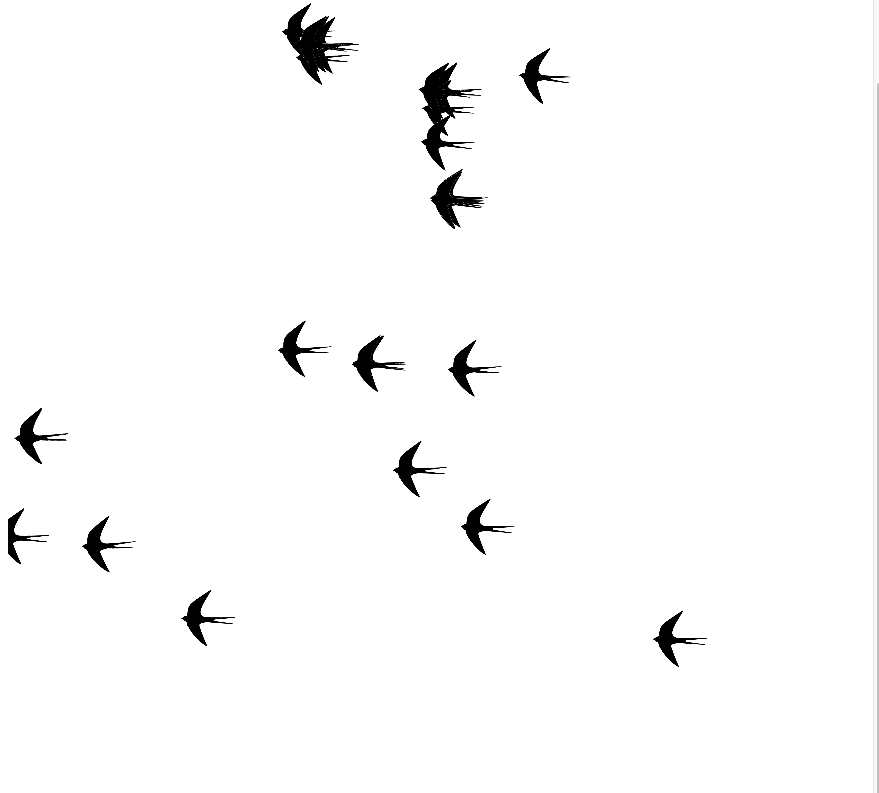
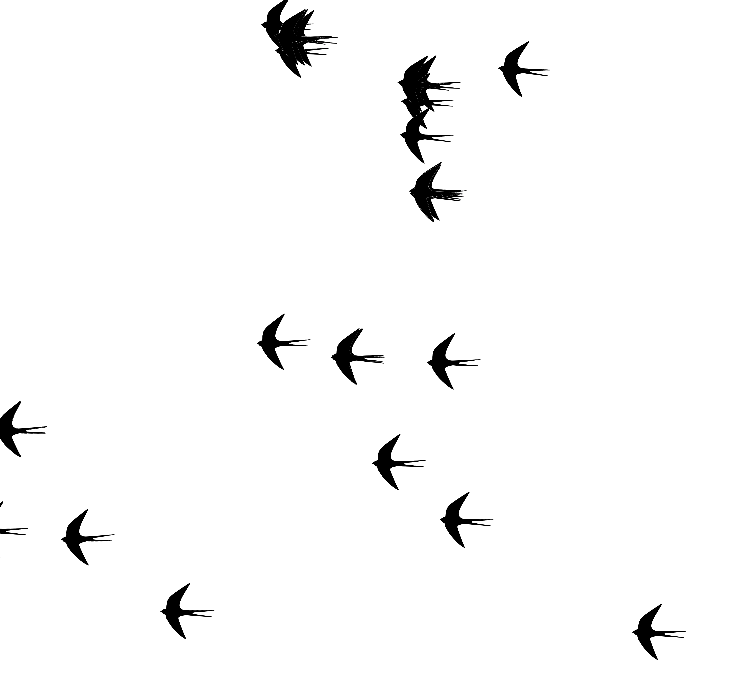
Final draft ready.

diff --git a/sections/flocker.tex b/sections/flocker.tex
@@ -33,7 +33,7 @@
 % OF THIS SOFTWARE, EVEN IF ADVISED OF THE POSSIBILITY OF SUCH DAMAGE.
 %
 % @created Sat Mar 31 2018 22:05:54 GMT-0700 (PDT)
-% @last-modified Mon Apr 02 2018 17:22:42 GMT-0700 (PDT)
+% @last-modified Wed Apr 04 2018 22:12:51 GMT-0700 (PDT)
 %
 
 
@@ -48,11 +48,11 @@
 
 The source-code \cite{flockerSrc} for {\em flocker} has been written in \mbox{Typescript}~(TS) \cite{ts} which has been compiled and bundled into a single \code{.js} file using the \mbox{Webpack} tool \cite{wbpack}.
 
-The central idea for implementing a simulation involving agents is coming up with a model for each agent. In our case, the agents -- {\em swallows} -- are {\em plain old Javascript objects} (POJO). Each swallow is given an \code{image}, \code{position}, \code{velocity}, and \code{acceleration}. The \code{image} is a \code{.PNG} image file of a swallow bird; \code{position}, \code{velocity}, and \code{acceleration} are p5.js \code{Vectors}. When a swallow spawns -- gets added to the simulation -- it is assigned a random position. Similarly, each swallow is assigned a random \code{velocity} in a random direction. However, initially, each swallow has zero \code{acceleration} -- no forces are acting on the swallow. Furthermore, internally each swallow has a {\em 4 x 4 matrix} to keep track of its position, scaling, and rotation. This matrix has been designed to be similar to {\em openframework's} \code{ofMatrix4x4} but, with utility methods specific to {\em flocker} like applications.
+The key step in implementing a simulation involving \mbox{\em autonomous~agents} is coming up with a model for each agent. In our case, the agents -- {\em swallows} -- are {\em plain old Javascript objects} (POJO). Each swallow is given an \code{image}, \code{position}, \code{velocity}, and \code{acceleration}. The \code{image} is a \code{.PNG} image file of a swallow bird; \code{position}, \code{velocity}, and \code{acceleration} are p5.js \code{Vectors}. When a swallow spawns -- gets added to the simulation -- it is \mbox{assigned} a random position. Similarly, each swallow is assigned a random \code{velocity} in a random direction. However, initially, each swallow has zero \code{acceleration} -- no forces are acting on the swallow. Furthermore, internally each swallow has a {\em 4 x 4 matrix} to keep track of its position, scaling, and rotation. This matrix has been designed to be similar to {\em openframework's} \code{ofMatrix4x4} but, with utility methods specific to {\em flocker} like applications.
 
-In our simulation, there are three types of forces acting on a swallow: {\em cohesion}, {\em separation}, and {\em alignment}. When the swallow flies, for each tick, the \code{acceleration} is the the aggregate of these three forces. Assuming each swallow to be of unit mass, using the equation \code{F = ma}, we can get \code{F = a}. The resultant \code{acceleration} updates the swallow's \code{velocity} which in turn modifies the swallow's \code{position}. The direction of the swallow's movement is determined from its \code{velocity}.
+In our simulation, there are three types of {\em steering forces} acting on a swallow: {\em cohesion}, {\em separation}, and {\em alignment}. When the swallow flies, for each tick, the \code{acceleration} is the the aggregate of these three forces. Assuming each swallow to be of unit mass, using the equation \code{F = ma}, we can get \code{F = a}. The resultant \code{acceleration} updates the swallow's \code{velocity} which in turn modifies the swallow's \code{position}. The direction of the swallow's movement is determined from its \code{velocity}.
 
-Since, there are three forces acting on a swallow influencing its flight behavior, we expose their desired strength and weights to the end user. The end user has the ability to modify the strength and weights of these forces to influence the behavior of the swallows and visualize the {\em flocking behavior}. The design choice for the user-interface (UI) will be covered in the next section \ref{flockerUI}.
+Since, there are three forces influencing a swallow's flight behavior, we expose their desired strength and weights to the user. The {\em flocker ui} connects the user with the simulation core allowing them to modify the three steering forces. The design choice for the user-interface (UI) will be covered in [Section \ref{flockerUI}].
 
 {\em Note}: We use the words {\em neighborhood} --- {\em simulation space}, and {\em peer} --- {\em neighbor} interchangeably while talking about the computation of the three steering forces acting on the swallow.
 
@@ -61,19 +61,19 @@ Since, there are three forces acting on a swallow influencing its flight behavio
 
 \begin{figure}
 	\centering
-	\includegraphics[scale=0.15]{resources/swallow.png}
+	\includegraphics[scale=0.15, frame]{resources/swallow.png}
 	\caption{The image used for a swallow.}
 	\label{swallowImg}
 \end{figure}
 
 The {\em swallow} [Fig. \ref{swallowImg}] is the bird chosen for this simulation. The design was inspired by the exhibit at the {\em Exploratorium, San Francisco} named {\em Flock} \cite{jillflock}. The image however is a \code{.PNG} file created from a screenshot of an icon by Prahlad \cite{apSwallow}.
 
-The swallow is designed to be an agent represented as a POJO that is intelligent enough to navigate through the environment and exhibit the flocking behavior according to the three forces.
+The swallow is designed to be an {\em autonomous agent} represented as a POJO that is intelligent enough to navigate through the environment and exhibit the flocking behavior with the three steering forces action upon it. The following paragraphs illustrate how the steering forces have been implemented in the flocker core.
 
 \subsubsection{Separation}
 \label{separation}
 
-{\em Separation} is the force acting on a swallow that enables it to maintain a certain separation from its peers in the simulation space. It is a kind of collision prevention mechanism. Initially, each swallow starts with a desired separation strength of 50 units and the weight of this separation force is 3 units. Each swallow computes the steering separation force after taking into account its distance from all of its peers in the simulation space -- it is exhaustive. Once the steering force has been computed, the force acts on the swallow changing its acceleration causing it to stay clear of its peers in the simulation. The separation steering force algorithm [Fig. \ref{separationLogic}] shows how the separation force is computed for the swallow. It is based on the algorithms in \cite{reynolds1999steering, danshiffman}.
+{\em Separation} is the force acting on a swallow that enables it to maintain a certain separation from its peers in the simulation space. It is a kind of collision prevention mechanism. Initially, each swallow starts with a desired separation strength of \code{50 units} and the weight of this separation force is \code{3 units}. Each swallow computes the steering separation force after taking into account its distance from all of its peers in the simulation space -- it is exhaustive. Once the steering force has been computed, the force acts on the swallow changing its acceleration causing it to stay clear of its peers in the simulation. The separation steering force algorithm [Fig. \ref{separationLogic}] shows how the separation force is computed for the swallow. It is based on the algorithms in \cite{reynolds1999steering, danshiffman}.
 
 \begin{figure}
 	\begin{verbatim}
@@ -103,7 +103,7 @@ Swallow::separation :: () -> Vector
 
 \begin{figure}
     \centering
-	\includegraphics[scale=0.30, width=250pt]{resources/flocker_max_separation.png}
+	\includegraphics[scale=0.30, width=250pt, frame]{resources/flocker_max_separation.png}
 	\caption{Max separation simulation.}
 	\label{maxSeparationImg}
 \end{figure}
@@ -112,7 +112,7 @@ Swallow::separation :: () -> Vector
 \label{alignment}
 
 {\em Alignment} is the force acting on a swallow that enables it to align itself with its peers in the simulation space.
-When the swallow aligns itself, it moves in the same direction with the same velocity as its peers. Initially, each swallow starts with a desired alignment strength of 50 units and the weight of this alignment force is 2 units. Each swallow computes the steering alignment force after computing the average velocity of all its peers. This enables it to move in the same direction. This too like separation \ref{separation} is exhaustive. The alignment steering force algorithm [Fig. \ref{alignmentLogic}] shows how the alignment force is computed for the swallow. It too is based on the algorithms in \cite{reynolds1999steering, danshiffman}.
+When the swallow aligns itself, it moves in the same direction with the same velocity as its peers. Initially, each swallow starts with a desired alignment strength of \code{50 units} and the weight of this alignment force is \code{2 units}. Each swallow computes the steering alignment force after computing the average velocity of all its peers. This enables it to move in the same direction. This too like separation [Section \ref{separation}] is exhaustive. The alignment steering force algorithm [Fig. \ref{alignmentLogic}] shows how the alignment force is computed for the swallow. It too is based on the algorithms in \cite{reynolds1999steering, danshiffman}.
 
 \begin{figure}
 	\begin{verbatim}
@@ -140,7 +140,7 @@ Swallow::alignment :: () -> Vector
 
 \begin{figure}
     \centering
-	\includegraphics[scale=0.30, width=250pt]{resources/flocker_max_alignment.png}
+	\includegraphics[scale=0.30, width=250pt, frame]{resources/flocker_max_alignment.png}
 	\caption{Max alignment simulation.}
 	\label{maxAlignmentImg}
 \end{figure}
@@ -149,7 +149,7 @@ Swallow::alignment :: () -> Vector
 \label{cohesion}
 
 {\em Cohesion} is the force acting on a swallow that enables it to group together with its peers in the simulation space. This force steers the swallow towards its peers so that it can approach its peers and form a group -- flock.
-In a sense, it can be considered as the gravitational force pulling in the swallows. Initially, each swallow starts with a desired cohesion strength of 50 units and the weight of this cohesion force is 2 units. Each swallow computes the steering cohesion force after computing the average position of all its peers. Then, the swallow moves towards this average position -- the center of gravity of the simulation space. This too like separation \ref{separation}, and alignment \ref{alignment} is exhaustive. The cohesion steering force algorithm [Fig. \ref{cohesionLogic}] shows how the cohesion force is computed for the swallow. It too is based on the algorithms in \cite{reynolds1999steering, danshiffman}.
+In a sense, it can be considered as the gravitational force pulling in the swallows towards the {\em center of gravity}. Initially, each swallow starts with a desired cohesion strength of \code{50 units} and the weight of this cohesion force is \code{2 units}. Each swallow computes the steering cohesion force after computing the average position of all its peers. Then, the swallow moves towards this average position -- the {\em center of gravity} of the simulation space. This too like separation [Section \ref{separation}], and alignment [Section \ref{alignment}] is exhaustive. The cohesion steering force algorithm [Fig. \ref{cohesionLogic}] shows how the cohesion force is computed for the swallow. It too is based on the algorithms in \cite{reynolds1999steering, danshiffman}.
 
 \begin{figure}
 	\begin{verbatim}
@@ -187,7 +187,7 @@ Swallow::seek :: (target: Vector) -> Vector
 
 \begin{figure}
     \centering
-	\includegraphics[scale=0.30, width=250pt]{resources/flocker_max_cohesion.png}
+	\includegraphics[scale=0.30, width=250pt, frame]{resources/flocker_max_cohesion.png}
 	\caption{Max cohesion simulation.}
 	\label{maxCohesionImg}
 \end{figure}
@@ -197,8 +197,32 @@ Swallow::seek :: (target: Vector) -> Vector
 
 The entire simulation runs inside a HTML \code{canvas} element which is generated by the p5.js library. We generate the canvas with the same dimensions as the content area of our webpage -- the canvas is re-rendered when the window resizes. Furthermore, we make the simulation wrap around the edges so that the swallows do not fall off the viewable area -- the direction of motion and velocity are preserved when wrapping around, only the position is affected.
 
-By default, the simulation caps the acceleration to a maximum value of \code{0.03}, and the velocity to a maximum value of \code{2.0}. This prevents the swallows from moving too fast and produces a smooth motion. The simulation starts out with \code{30} swallows, all at randomly generated positions. The user has the ability to add in a new swallow to the simulation by clicking on any area of the canvas. The new swallow is added at the point of mouse click but, with random velocity and direction~--~~to keep the motion random.
+By default, the simulation caps the acceleration to a maximum value of \code{0.03}, and the velocity to a maximum value of \code{2.0}. This prevents the swallows from moving too fast and produces a smooth motion. The simulation starts out with \code{30} swallows, all at randomly generated positions. 
 
-{\em Flocker} core has been designed as a standalone \mbox{library} that can be plugged in into different UI/view layer \mbox{implementations}. Comparing it with a traditional \mbox{\em model-view-controller} (MVC) architecture, the core would consist of the {\em model}, and the {\em controller} layers. Our UI is strictly restricted to the {\em view} layer only.
+The user has the ability to add in a new swallow to the simulation by clicking on any area of the canvas or using the {ctrl + c} key combination to add a swallow to the center of the canvas. The new swallow is added with random velocity and direction~--~~to keep the motion random. Similarly, pressing \code{ctrl + r} key combination removes a swallow from the simulation. The swallow removed is the oldest swallow; pressing \code{ctrl + d} enables the {\em debug view}. In the {\em debug view}, the canvas displays a grid which can be used to visually determine the positions of each swallow in the simulation space. Moreover, holding the \code{ctrl} {\em meta-key} displays the keymap information [Fig. \ref{metaAssistMenu}] to the user at the center of the canvas. This works as a quick reference -- inspired by {\em Ubuntu's} keymap reference when holding the {\em super key} \cite{ubuntuOverlay}.
+
+The simulation also displays the {\em frame-rate} and {\em swallow count} at the top left corner of the canvas [Fig. \ref{canvasExtraInfo}]. This is additional information that could be helpful to some users.
+
+\begin{figure}
+	\centering
+	\includegraphics[scale=0.36, width=250pt, frame]{resources/meta_assist_menu.png}
+	\caption{Assist menu}
+	\label{metaAssistMenu}
+\end{figure}
+
+\begin{figure}
+	\centering
+	\includegraphics[scale=0.35, width=250pt, frame]{resources/additional_canvas_text.png}
+	\caption{Frame-rate and swallow count.}
+	\label{canvasExtraInfo}
+\end{figure}
+
+The {\em flocker} core has been designed as a standalone \mbox{library} that can be plugged into different UI/view layer \mbox{implementations}. Comparing it with a traditional \mbox{\em model-view-controller} (MVC) architecture, the core would consist of the {\em model}, and the {\em controller} layers. Our UI is strictly restricted to the {\em view} layer only.
+
+\subsection{Testing the simulation}
+\label{flockerTesting}
+
+The {\em flocker core} was tested by checking the swallow's behavior upon changing the forces. The {\em debug grid} proved to be very helpful when testing the swallow's motion. To get a better understanding of how the swallows were behaving, we rendered a rectangular border around them. This allowed us to visually reason about the space each swallow took in the simulation space. Moreover, the {\em 4 x 4 matrix} utility was tested by using different values for translation, rotation, and scaling vectors. The early prototype \cite{flockerProto} also enabled us to iron out several bugs in the swallow's motion and we were able to get the smooth motion for the swallows.
+
 
 \end{document}

diff --git a/sections/flocker_ui.tex b/sections/flocker_ui.tex
@@ -33,7 +33,7 @@
 % OF THIS SOFTWARE, EVEN IF ADVISED OF THE POSSIBILITY OF SUCH DAMAGE.
 %
 % @created Sat Mar 31 2018 22:06:06 GMT-0700 (PDT)
-% @last-modified Tue Apr 03 2018 14:17:12 GMT-0700 (PDT)
+% @last-modified Wed Apr 04 2018 22:21:51 GMT-0700 (PDT)
 %
 
 
@@ -44,25 +44,52 @@
 \section{Flocker UI}
 \label{flockerUI}
 
-{\em Flocker UI} is divided into two separate segments: {\em Canvas area}, {\em Sidebar area}. Width and height of the {\em canvas area} and {\em sidebar area} are auto-configurable -- they adjust according the size of the screen/webpage.
-Features and styling for the UI component has implemented using {\em jQuery2.1} \cite{jquery} and {\em CSS3} \cite{css3}.
+{\em Flocker UI} is divided into two separate areas: the {\em canvas area}, and the {\em sidebar area}. Width and height of the {\em canvas area} and {\em sidebar area} are auto-configurable -- they adjust according the size of the browser window. Features and styles of the UI component have been implemented using {\em jQuery2.1} \cite{jquery} and {\em CSS3} \cite{css3}.
+
+{\em Note}: We recommend viewing the simulation on a screen with resolution of \code{1920 x 1080} or \code{FHD} in {\em full-screen} mode for best experience.
 
 \subsection{Canvas Area}
 \label{canvasArea}
 
-The {\em canvas area} illustrates the motion of flying swallows. The user can add new swallows to the simulation by clicking on the {\em canvas area}. The UI layer only deals with the placement of the {\em canvas area}, the simulation is handled by the {\em flocker core} covered in \ref{flocker}. Also, when the mouse is over the {\em canvas area}, the cursor changes into a {\em swallow}~[Fig. \ref{swallowImg}] indicating that the user can add a swallow at the point of left mouse button click. Moreover, double-clicking the secondary mouse button -- right mouse button -- inside the canvas area causes the {\em canvas area} to enter the full-screen mode, and the {\em sidebar area} is hidden. The {\em sidebar area} comes back when the user performs the same action or does a mouse click on the {\em canvas area}.
+The {\em canvas area} -- or {\em content area} -- holds the simulation. The user can add new swallows to the simulation by clicking on the {\em canvas area}. When the mouse is over the {\em canvas area}, the cursor changes into a {\em swallow}~[Fig. \ref{swallowImg}]. We designed this as an affordance to notify the user that they are on a region where swallows can be added. The cursor is the image of a swallow of dimensions \code{100 x 100 pixels}. The canvas is generated by the {\em flocker core} covered in [Section \ref{flocker}].
 
-The background color of the {\em canvas area} can be changed using the \code{R}, \code{G}, and \code{B} (Red, Green, and Blue) slider available in the {\em sidebar area}. The \code{R}, \code{G}, and \code{B} slider behaviour can be controlled using the range slider or input entry on the {\em sidebar}. If the range slider is moved in the positive x-direction or negative x-direction while keeping the left click of mouse-left button held down, it will result in increasing or decreasing the color intensity of the selected color. Alternatively, a user could also use the input provided corresponding to \code{R}, \code{G}, or \code{B} values to increase or decrease the intensity of the corresponding color. With the input box selected -- user can use \code{TAB} button as usual -- if a user holds the {\em up arrow key} or {\em down arrow key}, it will result in increase or decrease of the intensity of the corresponding color. If the user specifies the intensity of the color above \code{255} or below \code{0} in the input box, they will get an error specifying that the value of the corresponding color should be in the range of \code{0-255}.
+Although the canvas is {\em white} (\code{\#ffffff}) in color by default, we allow the user to change the background color of the canvas by using the \code{R}, \code{G}, and \code{B} (Red, Green, and Blue) sliders [Fig. \ref{colorSliders}] available on the {\em sidebar}. The \code{R}, \code{G}, and \code{B} values can be controlled by using the range sliders or input boxes on the {\em sidebar}. If the range slider is dragged in the positive x-direction or negative x-direction, it will increase or decrease the intensity of the respective color.
+
+\begin{figure}
+	\centering
+	\includegraphics[scale=0.35, width=250pt, frame]{resources/color_sliders.png}
+	\caption{The color sliders and input boxes.}
+	\label{colorSliders}
+\end{figure}
+
+Alternatively, the user could also use the corresponding input box to enter the exact value for the desired color. Since the input box and sliders are normal {\em HTML DOM elements}, they can be cycled through -- selected -- using the \code{TAB} button as usual. The user also gets the ability to increase or decrease the value entered in the input boxes by holding the {\em up arrow key} or {\em down arrow key}. Using the mouse scroll wheel also results in the same effect. Furthermore, when the input box is in focus, it gains an affordance on the right edge [Fig. \ref{forceSliders}]  enabling the user to increment/decrement the value entered. If the user specifies the intensity of the color above \code{255} or below \code{0} in the input box, they get an error and are asked to specify the value within the range~\code{0-255}.
 
 \subsection{Sidebar Area}
 \label{sidebarArea}
 
-The width of the {\em sidebar area} is re-sizable. We change the mouse pointer -- affordance -- to the {\em col-resize} pointer to let the user know where to click and drag to resize the {\em sidebar area}. In order to resize the sidebar, the user must click and hold their left mouse button while dragging their mouse in either the positive x-direction or negative x-direction. The resizable property of the sidebar is restricted to be resized between the range \code{300-400~pixels}~--~to prevent the UI from distorting.
+The {\em sidebar} holds the controllers for the simulation. It is located on the left of the webpage. It is separated from the {\em canvas/content area} by a {\em split-bar}. The width of the {\em sidebar area} is changed by dragging the {\em split-bar} horizontally to the right or left. The {\em sidebar} is {\em flexible} and gains a {\em scrollbar} when it doesn't find the browser-window's width to be sufficient for rendering itself. We change the mouse pointer to the \mbox{\em col-resize} pointer to let the user know that they are on the {\em split-bar}. This afforance notifies the user that they can drag to resize the {\em sidebar area}. The sidebar is restricted to be resized between the range \code{300-400~pixels} to prevent the UI from distorting.
 
-To control the {\em cohesion}, {\em alignment}, and {\em separation} steering forces of the simulation, range sliders and input entries are provided. We limit the weights of these forces to the range \code{0-5 units} and allow changes in steps of \code{0.1 units}. Similarly, we limit the desired strength of these forces to the range \code{0-300 units} and allow changes in steps of \code{5 units}.
+To control the {\em cohesion}, {\em alignment}, and {\em separation} steering forces of the simulation, range sliders and input boxes are provided [Fig. \ref{forceSliders}]. We limit the weights of these forces to the range \code{0-5 units} and allow changes in steps of \code{0.1 units}. Similarly, we limit the desired strength of these forces to the range \code{0-300 units} and allow changes in steps of \code{5 units}. The controllers used for force manipulation have the same operation mechanism as the ones used for manipulating canvas's background color intensities.
 
-The range slider can be moved in the positive x-direction or negative x-direction to increase or decrease the value of the property while holding the left mouse button down. The value for the property set by the slider is reflected in the corressponding text input box. Alternatively, to increase or decrease the value for these steering forces, the user can hold the up or down arrow keys of the keyboard or enter a value in their corressponding text input boxes.
+Initially, we had two groups of controllers. The first group had controllers for manipulating the strength of all the forces, and the second group had controllers for manipulating the weights of all the forces. However, we found this layout for controllers lacked coherence and moved over to our current layout. We have grouped the {\em desired strength} and {\em desired weight} controllers of the same force together to provide better coherence.
 
-If the value entered is outside the range, an error message is displayed right below the property specifying the valid range for the property. One would argue, it is a better option to give out the ranges allowed up-front as a tooltip but, we wanted to show the range only in the error. This is because the user doesn't really need much information while playing with the simulation, and this information is only necessary when they make a mistake -- enter absurd values.
+\begin{figure}
+	\centering
+	\includegraphics[scale=0.35, width=250pt, frame]{resources/force_sliders.png}
+	\caption{The force strength and weight controllers.}
+	\label{forceSliders}
+\end{figure}
+
+The controllers consist of a range slider and an input box. The range slider and contents of the input box are {\em in-sync} with each other -- when one changes, the other reflects the change. When bad values are entered in the input boxes, an error message is displayed below the controller specifying the valid range of values. One would argue, it is better to notify the user about the range of values upfront but, we have chosen not to. We believe that the user will not be entering bad values most of the time. Rather than crowding the space with extra information, we chose to gently warn the user when they made the mistake of entering bad values into the input boxes. This results in a cleaner UI that is not cramped -- less noise allows for a better simulation experience.
+
+\subsection{Color scheme}
+\label{colorScheme}
+
+We followed the theory of {\em complementary colors} as mentioned in \cite{colorTheory}. We decided to make the sidebar {\em blue} (\code{\#2196f3}). Following the theory of complementary colors, we chose the color of the sliders to be {\em orange} (\code{\#ff9800}). This makes them {\em pop-out} over the background. We chose the color of the text to be {\em white} (\code{\#ffffff}) and the color of the borders of input boxes to be {\em black} (\code{\#000000}). The canvas was left {\em white} by default but, the user gets the controllers to change the canvas' background color.
+
+\subsection{Testing the UI}
+\label{uiTesting}
+
+We tested the UI on various screen sizes and browser-window sizes. The viewing experience is the best on screens with atleast \code{1920 x 1080} or \code{FHD} resolution. We have implemented the {\em sidebar} and {\em canvas} to be flexible -- using CSS3 {\em flexbox} -- so, they adjust to the screen space available automatically. We tested the {\em frame-rate and swallow count} text alignment for various screen sizes by using the debug grid. It worked fine for most screen/browser window sizes. The controls were tested by entering valid and invalid values into the input boxes. The synchronization between the slider control and the input box contents was also tested by changing the values. The slider and input box contents are in-sync and bad values display the desired error messages.
 
 \end{document}

diff --git a/sections/intro.tex b/sections/intro.tex
@@ -33,7 +33,7 @@
 % OF THIS SOFTWARE, EVEN IF ADVISED OF THE POSSIBILITY OF SUCH DAMAGE.
 %
 % @created Sat Mar 31 2018 22:05:59 GMT-0700 (PDT)
-% @last-modified Mon Apr 02 2018 17:45:28 GMT-0700 (PDT)
+% @last-modified Wed Apr 04 2018 19:47:48 GMT-0700 (PDT)
 %
 
 
@@ -44,8 +44,8 @@
 \section{Introduction}
 \label{intro}
 
-The {\em flocking} behavior of birds in flight has been simulated by several computer and mathematical models. {\em Flocker} is inspired from the exhibit at {\em Exploratorium, San Francisco} \cite{jillflock}. However, unlike the exhibit, {\em flocker} is a browser based simulator.
+The {\em flocking} behavior of birds in flight has been simulated by several computer and mathematical models. {\em Flocker} is inspired from the exhibit at {\em Exploratorium, San Francisco} \cite{jillflock}. However, unlike the exhibit, {\em flocker} is a browser based simulator. Moreover, unlike the three physical dials of the exhibit \cite{jillflock}, our simulator has finer controls for manipulating the three steering forces affecting the flight behavior of the birds in the simulation.
 
-The simulator is strictly divided into two parts: \mbox{\em Flocker core}, \mbox{\em Flocker UI}. {\em Flocker core} is covered in \ref{flocker} and {\em flocker UI} is covered in \ref{flockerUI}. The {\em flocker core} is responsible for the simulation. It defines the birds and their behavior. The {\em flocker ui} is responsible for connecting the end user with the simulation. By enabling the end user to modify the key variables, they are able to visualize the flocking behavior of the birds in the simulation space.
+Our simulator is strictly divided into two parts: \mbox{\em flocker core}, and \mbox{\em flocker UI}. {\em Flocker core} is covered in [Section \ref{flocker}] and {\em flocker UI} is covered in [Section \ref{flockerUI}]. The {\em flocker core} is responsible for the simulation. The birds are {\em autonomous agents} flying in the simulation space and their flight behavior is influenced by three steering forces which are controlled by the user. The {\em flocker ui} is responsible for enabling the user to modify these three steering forces and view the effects on the flock instantaneously. Moreover, the user also has the ability to change the background color of the simulation space -- saving the canvas as an image makes great backgrounds for desktops and mobile devices.
 
 \end{document}

diff --git a/sections/conclusion.tex b/sections/conclusion.tex
@@ -33,7 +33,7 @@
 % OF THIS SOFTWARE, EVEN IF ADVISED OF THE POSSIBILITY OF SUCH DAMAGE.
 %
 % @created Mon Apr 02 2018 17:46:41 GMT-0700 (PDT)
-% @last-modified Tue Apr 03 2018 13:27:03 GMT-0700 (PDT)
+% @last-modified Wed Apr 04 2018 22:04:54 GMT-0700 (PDT)
 %
 
 \documentclass[../main]{subfiles}
@@ -44,6 +44,6 @@
 \label{concFuture}
 
 We have implemented an interactive web-based visualization tool for simulating bird flocking behavior.
-In the future this tool can be extended to leverage touch based gestures in the touch capable devices to give a better user experience. Additional affordances can be designed for controlling the variables easily and accurately.
+In the future this tool can be extended to leverage touch based gestures in the touch capable devices to give a better user experience. Additional affordances can be designed for controlling the variables easily and accurately. Another possibility could be using the {\em WEBGL} technology to implement 3D flocking simulation.
 
 \end{document}

diff --git a/sections/abstract.tex b/sections/abstract.tex
@@ -33,7 +33,7 @@
 % OF THIS SOFTWARE, EVEN IF ADVISED OF THE POSSIBILITY OF SUCH DAMAGE.
 %
 % @created Sat Mar 31 2018 22:05:46 GMT-0700 (PDT)
-% @last-modified Mon Apr 02 2018 16:36:03 GMT-0700 (PDT)
+% @last-modified Wed Apr 04 2018 16:33:41 GMT-0700 (PDT)
 %
 
 \documentclass[../main]{subfiles}
@@ -44,8 +44,8 @@
 \label{abstract}
 
 Flocker is a browser-based visualization tool. It visualizes the {\em flocking} behavior exhibited when
-a group of birds --~{\em flock}~-- are foraging or in flight. The user interacts with the model by
-manipulating the three variables in the model: {\em cohesion}, {\em separation}, and {\em alignment}.
+a group of birds --~{\em flock}~-- are foraging or in flight. The user interacts with the tool by
+manipulating three key variables: {\em cohesion}, {\em separation}, and {\em alignment}.
 
 \begin{IEEEkeywords}
     Cohesion, separation, alignment.

diff --git a/main.tex b/main.tex
@@ -33,7 +33,7 @@
 % OF THIS SOFTWARE, EVEN IF ADVISED OF THE POSSIBILITY OF SUCH DAMAGE.
 %
 % @created Sat Mar 31 2018 20:09:01 GMT-0700 (PDT)
-% @last-modified Tue Apr 03 2018 14:17:26 GMT-0700 (PDT)
+% @last-modified Wed Apr 04 2018 22:17:03 GMT-0700 (PDT)
 %
 
 \documentclass[10pt, journa, final, letterpaper]{IEEEtran}
@@ -42,6 +42,7 @@
 \usepackage{hyperref}
 \usepackage{bibentry}
 \usepackage{graphicx}
+\usepackage[export]{adjustbox} % for adding frames to images
 
 \newcommand{\bibname}{References}
 
